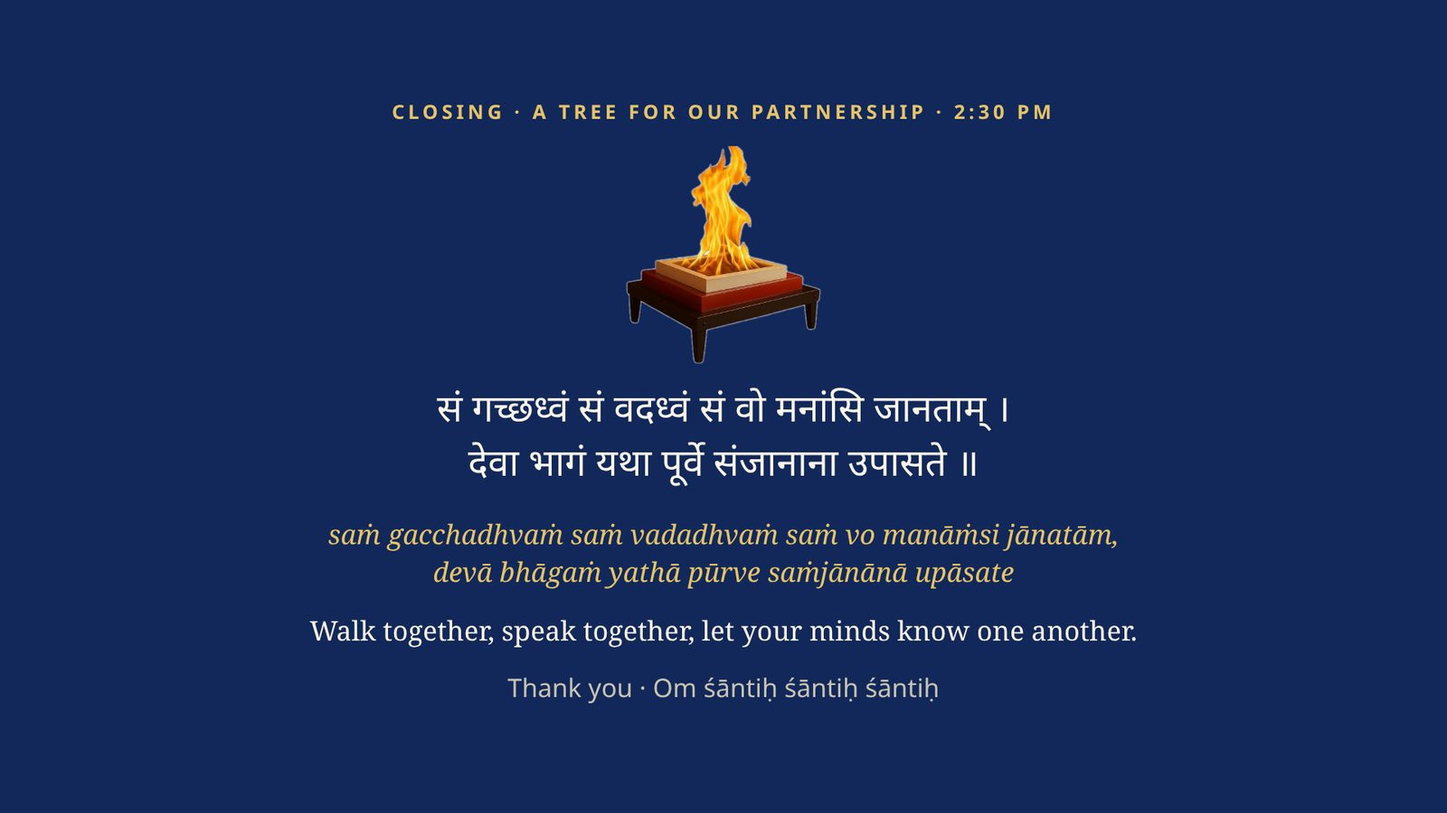
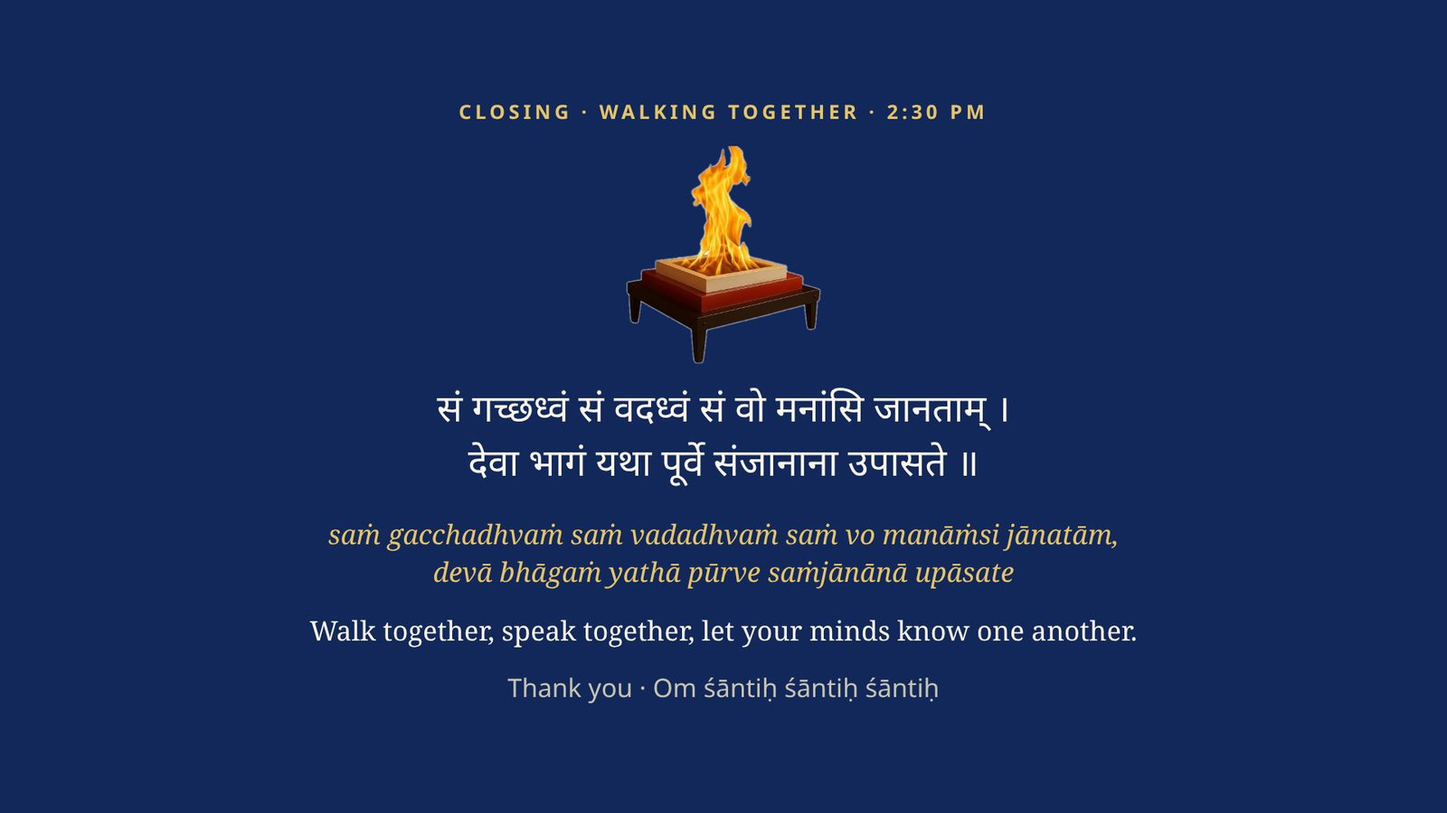
RET-001 Session 3: remove partnership tree planting
Claude-Session: https://claude.ai/code/session_016ku5Y66eEZCapcjc1YDX4h

Changed region(s): [[0.25, 0.1244, 0.75, 0.1556]]

diff --git a/RET-001/session-3/index.html b/RET-001/session-3/index.html
@@ -67,7 +67,7 @@ footer{max-width:1100px;margin:0 auto;padding:8px 16px 32px;font-size:13px;color
 </main>
 <footer>Ramakrishna Vedanta Centre of New Zealand · vedanta.nz · Press Play to hear each slide read aloud by your device's built-in voice. Keys: ← → to move, space to play or pause.</footer>
 <script>
-const SLIDES = [{"id": "cover", "img": "slides/s-01.jpg", "notes": "Welcome back after lunch. In Session 1 we explored yajña, the spirit of seva; in the forest we listened to the trees. Now we walk together: we share the Ritam Wellness Project of the Ramakrishna Vedanta Centre, its vision, mission and pathways, and then explore with the branch presidents and executives how the Centre and NZICA's branches can support one another."}, {"id": "whynow", "img": "slides/s-02.jpg", "notes": "These figures describe the people our branches already serve. Young people: in the 2024/25 New Zealand Health Survey, 22.9 per cent of 15 to 24 year olds reported high or very high psychological distress, the highest of any age group. Across all adults it was 14.3 per cent, about 619,000 people, and the rate has risen significantly over the last five and ten years. Elders: Age Concern found that 59 per cent of New Zealanders aged 65 and over had felt lonely recently, and 30 per cent feel lonely a lot or all of the time. For many elders in our community, children and grandchildren live far away, and language can make the wider community feel distant. Asian communities: the 2025 New Zealand Asian Wellbeing and Mental Health Survey by Asian Family Services found 57.2 per cent at risk of depression, with Indians among the groups most affected; life satisfaction has fallen by more than 11 per cent since 2021, and only 56.5 per cent feel a sense of belonging in their community. And 10.5 per cent of adults, about 456,000 people, wanted professional help for their mental health or substance use in the past year but did not receive it. The survey names what holds people back: stigma, language barriers and a lack of culturally appropriate support. These are exactly the gaps a trusted community organisation can help to fill."}, {"id": "nzicarole", "img": "slides/s-03.jpg", "notes": "Why is NZICA so well placed to respond? First, trust and reach: NZICA is the umbrella body of around 14 branches across the country, with families who know one another, festivals and halls where people already gather. Second, language and culture: the survey named language and a lack of culturally appropriate support as barriers; wellbeing offered in our own languages and in a familiar spirit answers both. Third, stigma: many in our community will not walk into a clinic, but anyone can come to a meditation or wellbeing session at their association; it is a gentle and respected door. Fourth, prevention: building resilience early, before a crisis, and knowing when and how to guide someone towards professional care. And belonging is itself medicine. Only about half of Asian New Zealanders feel they belong; a branch where youth, families and elders are known and cared for is already a place of healing. This is where the Ritam Wellness Project and NZICA can work hand in hand."}, {"id": "uplift", "img": "slides/s-04.jpg", "notes": "This is the heart of today's message. Sri Krishna says: lift yourself up by yourself; do not let yourself sink; you alone are your own friend, and you alone your own enemy. What is true of a person is true of a community. The wellbeing of our young people, our elders and our families cannot only be handed to us from outside. It has to rise from within our own community, through NZICA, the umbrella body of around 14 branches across New Zealand; it has to be rooted in our own culture and spirituality, the wisdom our sages gave the world; and it has to be led by our own people, trained, supported and serving one another. We have the treasure already: meditation, yoga, the Gītā, the Upaniṣads, the lives of Sri Ramakrishna, Holy Mother and Swami Vivekananda. Uttiṣṭhata jāgrata: arise, awake. Today we ask every branch to take up this work as its own seva."}, {"id": "ritam", "img": "slides/s-05.jpg", "notes": "Ritam, ṛtam in Sanskrit, is the cosmic order and harmony that holds the universe together. When the mind is in harmony with that order, there is health and wellbeing; when it drifts out of harmony, there is suffering. Our vision: that every person may live in harmony with their own true Self, with one another and with nature. Our mission: to share the timeless wisdom and practices of Yoga and Vedanta, in the light of modern science, as practical knowledge and skills for holistic wellbeing, especially mental health, for anyone, anywhere, at any time. The motto Swami Vivekananda gave the Ramakrishna Order joins our own growth and the welfare of the world: the same two reasons NZICA members gave this morning."}, {"id": "approach", "img": "slides/s-06.jpg", "notes": "The project works on three paths at once. First, in-person immersion at our Vedanta Retreat Centre at Glen Murray, where people can step away from daily pressures into silence, nature and practice. Second, online learning on vedanta.nz, so that the knowledge and skills reach anyone, anywhere, at any time. Third, a training-of-trainers approach: one swami cannot reach everyone, but trained and certified members can carry these practices into their own families, branches and communities, with the Centre's support."}, {"id": "glenmurray", "img": "slides/s-07.jpg", "notes": "The Vedanta Retreat Centre at Glen Murray was purchased on 31 May 2024 and inaugurated in November 2024 with a blessing by Māori elders. In August 2026 NZICA members planted 1,000 trees here, and the renovated barn was opened on 6 August. It is built for one purpose: mental wellbeing through spiritual solutions, especially for young people and elders. Here people can step away from screens and pressures into the silence of the forest, and learn practices they can take home."}, {"id": "barn", "img": "slides/s-08.jpg", "notes": "The barn you are sitting in began as an old farm shed. On the left you see it during the renovation, with volunteers lifting the wall panels into place; on the right, the hall as it is today, with its timber walls, stage and glass doors opening onto the forest. It was renovated through the generous gift of a devotee, who wishes to remain unnamed, and was opened on 6 August 2026. It has become the heart of the retreat centre: a hall for talks, meditation, retreats and community days like this one. We offer our heartfelt gratitude."}, {"id": "online", "img": "slides/s-09.jpg", "notes": "The second path is online. On vedanta.nz there are courses for every level: the Mind course in a beginners' conversational version and an advanced version, the Ritam Wellness for Parents course, and study courses on the Bhagavad Gītā, the Gospel of Sri Ramakrishna, the Gospel of Holy Mother and Swami Vivekananda. Our podcasts are free on Apple and Google, including Being in Balance with guided meditations. Satsang Study holds the slides, study papers, quizzes and reflections from every satsang and retreat, including today's study paper on yajña. And there are live classes: fortnightly satsangs at the New Lynn Centre in Auckland and monthly meditation classes on the first Wednesday of each month in Hamilton, all in person and on Zoom."}, {"id": "pathway", "img": "slides/s-10.jpg", "notes": "This is the pathway for anyone who wishes to walk with us. Begin by joining one of our Ritam Yarning Circles, always-open online circles where members learn, share and ask questions. Through them you can access the courses, studied at your own pace with the podcasts. Come to workshops and retreats here at Glen Murray to practise together, and join the live online classes: satsangs and meditation. Those who wish to go further can join the Training of Trainers programme and be certified as a VedantaNZ Wellness Coach. Such trainers can then deliver programmes in their own communities, supported by the Ramakrishna Vedanta Centre. Learning becomes serving: the wheel of yajña again."}, {"id": "tot", "img": "slides/s-11.jpg", "notes": "The Training of Trainers programme prepares people to become VedantaNZ Wellness Coaches. It is a structured programme in meditation-based wellbeing: understanding the mind, emotional resilience, stress management and practical contemplative skills, grounded in Yoga and Vedanta and in the findings of modern science. It is for community leaders, volunteers, teachers, health workers, parents and young adults who wish to serve. It leads to certification as a wellness trainer able to deliver short community wellbeing sessions, with the Centre's guidance and support. The programmes are preventive and educational in nature: they support, and never replace, professional mental health care, and trainers learn when and how to refer people for specialist help. If you or someone in your branch is interested, please register your interest today."}, {"id": "branches", "img": "slides/s-12.jpg", "notes": "Here is how we hope to work with NZICA's branches. Selected members of each branch train and are certified as wellness trainers. They then offer meditation-based wellbeing sessions in their own branch: for young people, women, families and seniors, in their own language and cultural setting. The Ramakrishna Vedanta Centre supports them with content, mentoring, resources, retreat days at Glen Murray and clear safeguarding and referral guidance. The sessions are culturally sensitive, inclusive, preventive and non-clinical. This is how the work can reach every branch across New Zealand, not only those who can travel to Glen Murray."}, {"id": "paraspara", "img": "slides/s-13.jpg", "notes": "Sri Krishna gives us the spirit of every partnership in one verse. This morning we saw the wheel of yajña: each part of life gives and receives. Here the same truth is said of two partners: nourish one another, and both reach the highest good. Parasparaṁ bhāvayantaḥ: not one side giving and the other receiving, but each uplifting the other. That is the spirit in which the Vedanta Centre and NZICA's branches can walk together. Let us now ask, very practically: how can we support you, and how can you support this work?"}, {"id": "mutual", "img": "slides/s-14.jpg", "notes": "In the spirit of parasparaṁ bhāvayantaḥ, here are some ways we might nourish one another. The Vedanta Centre can offer wellbeing talks and meditation at branch events, training and mentoring of branch members, retreat days at Glen Murray, free courses, podcasts and resources, and help with programmes for youth, women and seniors. The branches can share our programmes with their members, offer volunteers, skills and a liaison person, provide venues for talks and workshops, nominate members for the Training of Trainers, support facilities and fundraising such as the barn, and tell us what their communities most need. This is a starting list: we would love to hear your ideas."}, {"id": "mou", "img": "slides/s-15.jpg", "notes": "To give this partnership a clear form, the Vedanta Centre has proposed a Memorandum of Understanding to the President of NZICA. Its purpose is to work together on community mental wellbeing: short, structured, culturally sensitive sessions on emotional resilience, self-awareness, stress management, meditation and practical wellbeing skills, for youth, women, families, community leaders, volunteers and seniors. Under it, the Vedanta Centre designs and delivers programmes, trains wellness coaches through a training-of-trainers approach, and provides content, resources, advice and safeguards. NZICA appoints a liaison person, supports outreach and promotion, helps identify participant groups, venues and branch connections, and encourages members to train as trainers. Together we may run awareness sessions, workshops, youth, women's, family and leadership sessions, and pilot programmes. NZICA may also support the Centre's programmes, facilities and fundraising. The MoU is for two years, renewable, with a joint review each year, and it makes clear that this work is preventive and educational and never replaces professional mental health care. It is still a draft, proposed to the President and the executives of NZICA for their consideration. Today is a chance for the branch executives to hear it, ask questions and suggest how it can best serve their branches, before the NZICA executive takes it forward."}, {"id": "planning", "img": "slides/s-16.jpg", "notes": "Now we open the conversation to the branch presidents and to Veer Khar, President of NZICA. Three questions can guide us: What does our community most need for its wellbeing? How can the Vedanta Centre support us? How can our branch support this work? Those joining on Zoom are welcome to share their thoughts in the chat. We will note the main points, share them with NZICA, and use them to plan the year ahead together."}, {"id": "begin", "img": "slides/s-17.jpg", "notes": "Three simple ways to begin today. Scan the first code to join the Ritam Yarning Circle for VedantaNZ Members, our online circle to learn, share and ask questions. Scan the second to start the free beginners course, Conversations on the Mind, which has a podcast for every lesson. Scan the third for Satsang Study, where today's study paper, slides and quiz are waiting. If you are interested in the Training of Trainers programme, please write to mail@vedanta.nz or speak to Swami Shuklananda before you leave."}, {"id": "extension", "img": "slides/s-18.jpg", "notes": "This is the proposed extension at the south end of the barn, where the old shed now stands. Between two passages, an amenities block holds two showers and two toilets for men, two showers and two toilets for women, and hand basins, with a room for the water pump and filtration and a storage room. Beyond it is a storage shed of 8 by 9 metres, and the existing awning is extended along the side. With these facilities the retreat centre can welcome larger groups, like today's, for full-day and residential retreats."}, {"id": "appeal", "img": "slides/s-19.jpg", "notes": "Our next step is to complete the barn with a storage facility and public toilets, so that the retreat centre can welcome larger groups like today's in comfort. About $50,000 is still needed. We warmly invite sponsors, donors and NZICA branches to share in this offering, in the spirit of today's theme: many offerings, one sacred fire. Gifts can be made at vedanta.nz/donate, under the Vedanta Wellness Project. The Ramakrishna Vedanta Centre is a registered charity in New Zealand (CC60351)."}, {"id": "feedback", "img": "slides/s-20.jpg", "notes": "Before we plant the tree, please take two minutes to give us your feedback. Scan the code with your phone camera; the form opens straight away. It asks how you found each session, what you gained, and what would help your branch most. Your answers will be shared with NZICA so that together we can plan the year ahead. Those joining on Zoom will find the link in the chat. Thank you."}, {"id": "closing", "img": "slides/s-21.jpg", "notes": "We close by sharing our feedback, planting a tree to mark the partnership between NZICA and the Ramakrishna Vedanta Centre, and chanting together once more our theme mantra, the Saṁjñāna Sūkta: walk together, speak together, let your minds know one another, as the devas of old, in harmony, each took up their own share. Thank you all, and Om śāntiḥ śāntiḥ śāntiḥ."}];
+const SLIDES = [{"id": "cover", "img": "slides/s-01.jpg", "notes": "Welcome back after lunch. In Session 1 we explored yajña, the spirit of seva; in the forest we listened to the trees. Now we walk together: we share the Ritam Wellness Project of the Ramakrishna Vedanta Centre, its vision, mission and pathways, and then explore with the branch presidents and executives how the Centre and NZICA's branches can support one another."}, {"id": "whynow", "img": "slides/s-02.jpg", "notes": "These figures describe the people our branches already serve. Young people: in the 2024/25 New Zealand Health Survey, 22.9 per cent of 15 to 24 year olds reported high or very high psychological distress, the highest of any age group. Across all adults it was 14.3 per cent, about 619,000 people, and the rate has risen significantly over the last five and ten years. Elders: Age Concern found that 59 per cent of New Zealanders aged 65 and over had felt lonely recently, and 30 per cent feel lonely a lot or all of the time. For many elders in our community, children and grandchildren live far away, and language can make the wider community feel distant. Asian communities: the 2025 New Zealand Asian Wellbeing and Mental Health Survey by Asian Family Services found 57.2 per cent at risk of depression, with Indians among the groups most affected; life satisfaction has fallen by more than 11 per cent since 2021, and only 56.5 per cent feel a sense of belonging in their community. And 10.5 per cent of adults, about 456,000 people, wanted professional help for their mental health or substance use in the past year but did not receive it. The survey names what holds people back: stigma, language barriers and a lack of culturally appropriate support. These are exactly the gaps a trusted community organisation can help to fill."}, {"id": "nzicarole", "img": "slides/s-03.jpg", "notes": "Why is NZICA so well placed to respond? First, trust and reach: NZICA is the umbrella body of around 14 branches across the country, with families who know one another, festivals and halls where people already gather. Second, language and culture: the survey named language and a lack of culturally appropriate support as barriers; wellbeing offered in our own languages and in a familiar spirit answers both. Third, stigma: many in our community will not walk into a clinic, but anyone can come to a meditation or wellbeing session at their association; it is a gentle and respected door. Fourth, prevention: building resilience early, before a crisis, and knowing when and how to guide someone towards professional care. And belonging is itself medicine. Only about half of Asian New Zealanders feel they belong; a branch where youth, families and elders are known and cared for is already a place of healing. This is where the Ritam Wellness Project and NZICA can work hand in hand."}, {"id": "uplift", "img": "slides/s-04.jpg", "notes": "This is the heart of today's message. Sri Krishna says: lift yourself up by yourself; do not let yourself sink; you alone are your own friend, and you alone your own enemy. What is true of a person is true of a community. The wellbeing of our young people, our elders and our families cannot only be handed to us from outside. It has to rise from within our own community, through NZICA, the umbrella body of around 14 branches across New Zealand; it has to be rooted in our own culture and spirituality, the wisdom our sages gave the world; and it has to be led by our own people, trained, supported and serving one another. We have the treasure already: meditation, yoga, the Gītā, the Upaniṣads, the lives of Sri Ramakrishna, Holy Mother and Swami Vivekananda. Uttiṣṭhata jāgrata: arise, awake. Today we ask every branch to take up this work as its own seva."}, {"id": "ritam", "img": "slides/s-05.jpg", "notes": "Ritam, ṛtam in Sanskrit, is the cosmic order and harmony that holds the universe together. When the mind is in harmony with that order, there is health and wellbeing; when it drifts out of harmony, there is suffering. Our vision: that every person may live in harmony with their own true Self, with one another and with nature. Our mission: to share the timeless wisdom and practices of Yoga and Vedanta, in the light of modern science, as practical knowledge and skills for holistic wellbeing, especially mental health, for anyone, anywhere, at any time. The motto Swami Vivekananda gave the Ramakrishna Order joins our own growth and the welfare of the world: the same two reasons NZICA members gave this morning."}, {"id": "approach", "img": "slides/s-06.jpg", "notes": "The project works on three paths at once. First, in-person immersion at our Vedanta Retreat Centre at Glen Murray, where people can step away from daily pressures into silence, nature and practice. Second, online learning on vedanta.nz, so that the knowledge and skills reach anyone, anywhere, at any time. Third, a training-of-trainers approach: one swami cannot reach everyone, but trained and certified members can carry these practices into their own families, branches and communities, with the Centre's support."}, {"id": "glenmurray", "img": "slides/s-07.jpg", "notes": "The Vedanta Retreat Centre at Glen Murray was purchased on 31 May 2024 and inaugurated in November 2024 with a blessing by Māori elders. In August 2026 NZICA members planted 1,000 trees here, and the renovated barn was opened on 6 August. It is built for one purpose: mental wellbeing through spiritual solutions, especially for young people and elders. Here people can step away from screens and pressures into the silence of the forest, and learn practices they can take home."}, {"id": "barn", "img": "slides/s-08.jpg", "notes": "The barn you are sitting in began as an old farm shed. On the left you see it during the renovation, with volunteers lifting the wall panels into place; on the right, the hall as it is today, with its timber walls, stage and glass doors opening onto the forest. It was renovated through the generous gift of a devotee, who wishes to remain unnamed, and was opened on 6 August 2026. It has become the heart of the retreat centre: a hall for talks, meditation, retreats and community days like this one. We offer our heartfelt gratitude."}, {"id": "online", "img": "slides/s-09.jpg", "notes": "The second path is online. On vedanta.nz there are courses for every level: the Mind course in a beginners' conversational version and an advanced version, the Ritam Wellness for Parents course, and study courses on the Bhagavad Gītā, the Gospel of Sri Ramakrishna, the Gospel of Holy Mother and Swami Vivekananda. Our podcasts are free on Apple and Google, including Being in Balance with guided meditations. Satsang Study holds the slides, study papers, quizzes and reflections from every satsang and retreat, including today's study paper on yajña. And there are live classes: fortnightly satsangs at the New Lynn Centre in Auckland and monthly meditation classes on the first Wednesday of each month in Hamilton, all in person and on Zoom."}, {"id": "pathway", "img": "slides/s-10.jpg", "notes": "This is the pathway for anyone who wishes to walk with us. Begin by joining one of our Ritam Yarning Circles, always-open online circles where members learn, share and ask questions. Through them you can access the courses, studied at your own pace with the podcasts. Come to workshops and retreats here at Glen Murray to practise together, and join the live online classes: satsangs and meditation. Those who wish to go further can join the Training of Trainers programme and be certified as a VedantaNZ Wellness Coach. Such trainers can then deliver programmes in their own communities, supported by the Ramakrishna Vedanta Centre. Learning becomes serving: the wheel of yajña again."}, {"id": "tot", "img": "slides/s-11.jpg", "notes": "The Training of Trainers programme prepares people to become VedantaNZ Wellness Coaches. It is a structured programme in meditation-based wellbeing: understanding the mind, emotional resilience, stress management and practical contemplative skills, grounded in Yoga and Vedanta and in the findings of modern science. It is for community leaders, volunteers, teachers, health workers, parents and young adults who wish to serve. It leads to certification as a wellness trainer able to deliver short community wellbeing sessions, with the Centre's guidance and support. The programmes are preventive and educational in nature: they support, and never replace, professional mental health care, and trainers learn when and how to refer people for specialist help. If you or someone in your branch is interested, please register your interest today."}, {"id": "branches", "img": "slides/s-12.jpg", "notes": "Here is how we hope to work with NZICA's branches. Selected members of each branch train and are certified as wellness trainers. They then offer meditation-based wellbeing sessions in their own branch: for young people, women, families and seniors, in their own language and cultural setting. The Ramakrishna Vedanta Centre supports them with content, mentoring, resources, retreat days at Glen Murray and clear safeguarding and referral guidance. The sessions are culturally sensitive, inclusive, preventive and non-clinical. This is how the work can reach every branch across New Zealand, not only those who can travel to Glen Murray."}, {"id": "paraspara", "img": "slides/s-13.jpg", "notes": "Sri Krishna gives us the spirit of every partnership in one verse. This morning we saw the wheel of yajña: each part of life gives and receives. Here the same truth is said of two partners: nourish one another, and both reach the highest good. Parasparaṁ bhāvayantaḥ: not one side giving and the other receiving, but each uplifting the other. That is the spirit in which the Vedanta Centre and NZICA's branches can walk together. Let us now ask, very practically: how can we support you, and how can you support this work?"}, {"id": "mutual", "img": "slides/s-14.jpg", "notes": "In the spirit of parasparaṁ bhāvayantaḥ, here are some ways we might nourish one another. The Vedanta Centre can offer wellbeing talks and meditation at branch events, training and mentoring of branch members, retreat days at Glen Murray, free courses, podcasts and resources, and help with programmes for youth, women and seniors. The branches can share our programmes with their members, offer volunteers, skills and a liaison person, provide venues for talks and workshops, nominate members for the Training of Trainers, support facilities and fundraising such as the barn, and tell us what their communities most need. This is a starting list: we would love to hear your ideas."}, {"id": "mou", "img": "slides/s-15.jpg", "notes": "To give this partnership a clear form, the Vedanta Centre has proposed a Memorandum of Understanding to the President of NZICA. Its purpose is to work together on community mental wellbeing: short, structured, culturally sensitive sessions on emotional resilience, self-awareness, stress management, meditation and practical wellbeing skills, for youth, women, families, community leaders, volunteers and seniors. Under it, the Vedanta Centre designs and delivers programmes, trains wellness coaches through a training-of-trainers approach, and provides content, resources, advice and safeguards. NZICA appoints a liaison person, supports outreach and promotion, helps identify participant groups, venues and branch connections, and encourages members to train as trainers. Together we may run awareness sessions, workshops, youth, women's, family and leadership sessions, and pilot programmes. NZICA may also support the Centre's programmes, facilities and fundraising. The MoU is for two years, renewable, with a joint review each year, and it makes clear that this work is preventive and educational and never replaces professional mental health care. It is still a draft, proposed to the President and the executives of NZICA for their consideration. Today is a chance for the branch executives to hear it, ask questions and suggest how it can best serve their branches, before the NZICA executive takes it forward."}, {"id": "planning", "img": "slides/s-16.jpg", "notes": "Now we open the conversation to the branch presidents and to Veer Khar, President of NZICA. Three questions can guide us: What does our community most need for its wellbeing? How can the Vedanta Centre support us? How can our branch support this work? Those joining on Zoom are welcome to share their thoughts in the chat. We will note the main points, share them with NZICA, and use them to plan the year ahead together."}, {"id": "begin", "img": "slides/s-17.jpg", "notes": "Three simple ways to begin today. Scan the first code to join the Ritam Yarning Circle for VedantaNZ Members, our online circle to learn, share and ask questions. Scan the second to start the free beginners course, Conversations on the Mind, which has a podcast for every lesson. Scan the third for Satsang Study, where today's study paper, slides and quiz are waiting. If you are interested in the Training of Trainers programme, please write to mail@vedanta.nz or speak to Swami Shuklananda before you leave."}, {"id": "extension", "img": "slides/s-18.jpg", "notes": "This is the proposed extension at the south end of the barn, where the old shed now stands. Between two passages, an amenities block holds two showers and two toilets for men, two showers and two toilets for women, and hand basins, with a room for the water pump and filtration and a storage room. Beyond it is a storage shed of 8 by 9 metres, and the existing awning is extended along the side. With these facilities the retreat centre can welcome larger groups, like today's, for full-day and residential retreats."}, {"id": "appeal", "img": "slides/s-19.jpg", "notes": "Our next step is to complete the barn with a storage facility and public toilets, so that the retreat centre can welcome larger groups like today's in comfort. About $50,000 is still needed. We warmly invite sponsors, donors and NZICA branches to share in this offering, in the spirit of today's theme: many offerings, one sacred fire. Gifts can be made at vedanta.nz/donate, under the Vedanta Wellness Project. The Ramakrishna Vedanta Centre is a registered charity in New Zealand (CC60351)."}, {"id": "feedback", "img": "slides/s-20.jpg", "notes": "Before we close, please take two minutes to give us your feedback. Scan the code with your phone camera; the form opens straight away. It asks how you found each session, what you gained, and what would help your branch most. Your answers will be shared with NZICA so that together we can plan the year ahead. Those joining on Zoom will find the link in the chat. Thank you."}, {"id": "closing", "img": "slides/s-21.jpg", "notes": "We close by sharing our feedback and chanting together once more our theme mantra, the Saṁjñāna Sūkta: walk together, speak together, let your minds know one another, as the devas of old, in harmony, each took up their own share. Thank you all, and Om śāntiḥ śāntiḥ śāntiḥ."}];
 const $ = id => document.getElementById(id);
 const synth = window.speechSynthesis;
 let i = 0, playing = false, auto = true, chunks = [], ci = 0, voices = [], token = 0;
